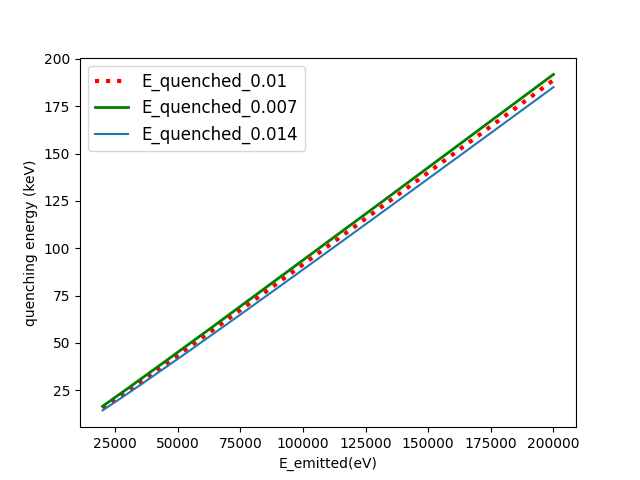
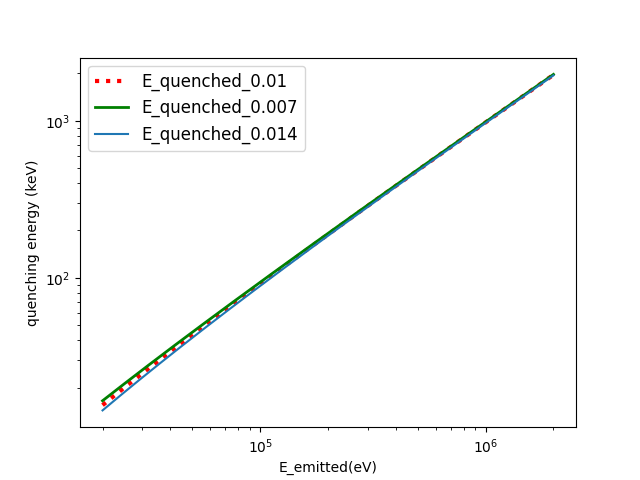
test

diff --git a/MCTDCRcode/TDCR_model_lib.py b/MCTDCRcode/TDCR_model_lib.py
@@ -310,7 +310,7 @@ def E_quench_e(e,kB): # e : eV
 s1 = []
 s2 = []
 s3 = []
-x = np.linspace(2e4,2e5,2000) 
+x = np.linspace(2e4,2e6,2000) 
 
 for i in x:
     s1.append(E_quench_e(i,kB=0.007)*1e-3)
@@ -320,8 +320,8 @@ for i in x:
 plt.plot(x,s2,label='E_quenched_0.01',ls=':',color='red',lw=3)
 plt.plot(x,s1,label='E_quenched_0.007',color='green',lw=2)
 plt.plot(x,s3,label='E_quenched_0.014')
-#plt.xscale('log')
-#plt.yscale('log')
+plt.xscale('log')
+plt.yscale('log')
 plt.legend(fontsize=12,loc='best')
 plt.xlabel('E_emitted(eV)')
 plt.ylabel('quenching energy (keV)')
